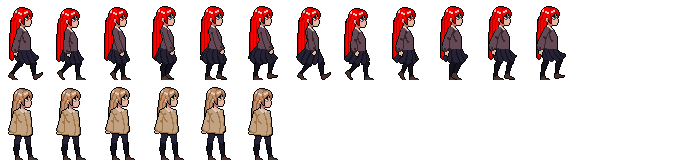
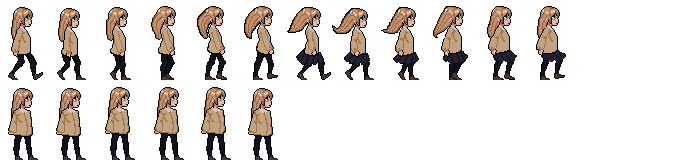
Added more animation to Sora NPC and added walking towards player functionality

diff --git a/WasteSeeker/Classes_Assets/NPC.cs b/WasteSeeker/Classes_Assets/NPC.cs
@@ -24,9 +24,9 @@ namespace WasteSeeker.Classes_Assets
 
         private float _scaleFactor = 2.0f;
 
-        //private NPCState _npcState = NPCState.Idle;
+        private NPCState _npcState = NPCState.Idle;
 
-        //private NPCState _previousNPCState;
+        private NPCState _previousNPCState;
 
         private double _animationTimer;
 
@@ -36,10 +36,21 @@ namespace WasteSeeker.Classes_Assets
 
         private BoundingRectangle _bounds;
 
+        private bool _isFollowingPlayer = false;
+
         /// <summary>
         /// The bounding volume of the sprite
         /// </summary>
         public BoundingRectangle Bounds => _bounds;
+
+        /// <summary>
+        /// Sets if the NPC is following the player
+        /// </summary>
+        public bool IsFollowingPlayer
+        {
+            get { return _isFollowingPlayer; }
+            set { _isFollowingPlayer = value; }
+        }
 
         /// <summary>
         /// Name of the NPC
@@ -59,7 +70,7 @@ namespace WasteSeeker.Classes_Assets
         /// <summary>
         /// The NPC's walk speed
         /// </summary>
-        public float WalkSpeed { get; set; }
+        public float WalkSpeed { get; set; } = 220;
 
         /// <summary>
         /// The NPC's Run Speed
@@ -83,13 +94,14 @@ namespace WasteSeeker.Classes_Assets
         /// <param name="description">Description of the character</param>
         /// <param name="health">Character's Hitpoints</param>
         /// <param name="position">Character's Position</param>
-        public NPC(string name, string description, int health, Vector2 position)
+        public NPC(string name, string description, int health, Vector2 position, bool isFollowingPlayer)
         {
             Name = name;
             Description = description;
             Health = health;
             Position = position;
             _bounds = new BoundingRectangle(position, 40, 80);
+            _isFollowingPlayer = isFollowingPlayer;
         }
 
         /// <summary>
@@ -103,12 +115,35 @@ namespace WasteSeeker.Classes_Assets
         }
 
         /// <summary>
+        /// Base Update Method in-case we only want to update what is happening to the NPC
+        /// </summary>
+        /// <param name="gameTime"></param>
+        public void Update(GameTime gameTime)
+        {
+            // TODO: Implementation
+        }
+
+        /// <summary>
         /// Updates the NPC in the game
         /// </summary>
         /// <param name="gameTime">Game Time</param>
-        public void Update(GameTime gameTime)
+        public void Update(GameTime gameTime, Vector2 playerPosition)
         {
-            
+            int movementDirection = 0;
+            TargetPlayer(playerPosition);
+            if (_isFollowingPlayer) { movementDirection = FollowPlayer(playerPosition); }
+
+            switch (_npcState)
+            {
+                case NPCState.Walking:
+
+                    Position += new Vector2(movementDirection * WalkSpeed * (float)gameTime.ElapsedGameTime.TotalSeconds, 0);
+
+                    break;
+            }
+
+            _bounds.X = Position.X;
+            _bounds.Y = Position.Y;
         }
 
         /// <summary>
@@ -121,14 +156,35 @@ namespace WasteSeeker.Classes_Assets
             _animationTimer += gameTime.ElapsedGameTime.TotalSeconds;
             Rectangle source;
 
-            if (_animationTimer > 0.2)
+            switch (_npcState)
             {
-                _animationFrame++;
-                if (_animationFrame > 5) { _animationFrame = 1; }
-                _animationTimer -= 0.2;
+                case NPCState.Idle:
+
+                    if (_animationTimer > 0.2)
+                    {
+                        _animationFrame++;
+                        if (_animationFrame > 5) { _animationFrame = 1; }
+                        _animationTimer -= 0.2;
+                    }
+                    source = new Rectangle(_animationFrame * 48, 81, 48, 80);
+                    spriteBatch.Draw(Texture, Position, source, Color.White, 0, new Vector2(24, 40), _scaleFactor, _directionFacing, 1);
+
+                    break;
+
+                case NPCState.Walking:
+
+                    if (_animationTimer > 0.1)
+                    {
+                        _animationFrame++;
+                        if (_animationFrame > 10) { _animationFrame = 1; }
+                        _animationTimer -= 0.1;
+                    }
+                    source = new Rectangle(_animationFrame * 48, 2, 48, 80);
+                    spriteBatch.Draw(Texture, Position, source, Color.White, 0, new Vector2(24, 40), _scaleFactor, _directionFacing, 1);
+
+                    break;
             }
-            source = new Rectangle(_animationFrame * 48, 81, 48, 80);
-            spriteBatch.Draw(Texture, Position, source, Color.White, 0, new Vector2(24, 40), _scaleFactor, _directionFacing, 1);
+            
         }
 
         /// <summary>
@@ -139,6 +195,31 @@ namespace WasteSeeker.Classes_Assets
         {
             if (playerPosition.X < Position.X) { _directionFacing = SpriteEffects.FlipHorizontally; }
             else {  _directionFacing = SpriteEffects.None; }
+        }
+
+        /// <summary>
+        /// Method to update 
+        /// </summary>
+        /// <param name="playerPosition"></param>
+        public int FollowPlayer(Vector2 playerPosition)
+        {
+            if (Position.X <= playerPosition.X && Position.X <= playerPosition.X - 150) // NPC is moving right towards player
+            {
+                _npcState = NPCState.Walking;
+                return 1;
+
+            }
+            if (Position.X >= playerPosition.X - 150 && Position.X <= playerPosition.X + 150) // NPC is within "150" pixels of player, so we switch to idle
+            {
+                _npcState = NPCState.Idle;
+                return 0;
+            }
+            if (Position.X >= playerPosition.X && Position.X >= playerPosition.X + 150) // NPC is moving left towards the player
+            {
+                _npcState = NPCState.Walking;
+                return -1;
+            }
+            return 0;
         }
     }
 }

diff --git a/WasteSeeker/WasteSeekerGame.cs b/WasteSeeker/WasteSeekerGame.cs
@@ -138,7 +138,7 @@ namespace WasteSeeker
 
             #region Characters
             _player = new Player("Kuzu", "TODO", 100, new Vector2(100, 480), _inputHandler);
-            _soraNPC = new NPC("Sora", "TODO", 100, new Vector2(((GraphicsDevice.Viewport.Width/2) + 250), 470));
+            _soraNPC = new NPC("Sora", "TODO", 100, new Vector2(((GraphicsDevice.Viewport.Width/2) + 250), 470), false);
             #endregion
 
             #endregion
@@ -289,20 +289,26 @@ namespace WasteSeeker
 
                     _player.Update(gameTime);
                     _soraNPC.TargetPlayer(_player.Position);
+                    _soraNPC.Update(gameTime, _player.Position);
 
-                    if (_player.Position.X <= -10) { _player.Position = new Vector2(GraphicsDevice.Viewport.X - 10, _player.Position.Y); }
-                    else if (_player.Position.X > 14000) { _player.Position = new Vector2(14000, _player.Position.Y); }
-                    
-                    // Make Sora ANGRY
-                    if (_player.Bounds.CollidesWith(_soraNPC.Bounds)) { _angryTimer += gameTime.ElapsedGameTime.TotalSeconds; }
+                    if (_player.Position.X >= _soraNPC.Position.X && !_soraNPC.IsFollowingPlayer)
+                    {
+                        _soraNPC.IsFollowingPlayer = true;
+                    }
 
+                    // TumbleWeed
                     _tumbleweed.Update(gameTime);
                     if (_tumbleweed.Position.X < _player.Position.X - 500)
                     {
                         _tumbleweed.UpdateScale();
                         _tumbleweed.Position = new Vector2(_player.Position.X + GraphicsDevice.Viewport.Width + 200, 540);
                     }
-
+                    // Player bounds on screen
+                    if (_player.Position.X <= -10) { _player.Position = new Vector2(GraphicsDevice.Viewport.X - 10, _player.Position.Y); }
+                    else if (_player.Position.X > 14000) { _player.Position = new Vector2(14000, _player.Position.Y); }
+                    
+                    // Make Sora ANGRY
+                    //if (_player.Bounds.CollidesWith(_soraNPC.Bounds)) { _angryTimer += gameTime.ElapsedGameTime.TotalSeconds; }
                     break;
             }
 
@@ -348,8 +354,8 @@ namespace WasteSeeker
                     GraphicsDevice.Clear(Color.NavajoWhite);
 
                     // Calculate our offset vector 
-                    float playerX = MathHelper.Clamp(_player.Position.X, 300, 14000);
-                    float offsetX = 300 - playerX;
+                    float playerX = MathHelper.Clamp(_player.Position.X, 500, 14000);
+                    float offsetX = 500 - playerX;
 
                     Matrix tranform;
 
@@ -376,27 +382,22 @@ namespace WasteSeeker
                     _spriteBatch.End();
 
                     _spriteBatch.Begin();
-
-                    
                     _spriteBatch.DrawString(_sedgwickAveDisplay, "Press 'Backspace' on the keyboard, to return to the Menu.", new Vector2((GraphicsDevice.Viewport.Width / 2) + 10, 700), Color.White, 0, _sedgwickAveDisplay.MeasureString("Press 'Backspace' on the keyboard, to return to the Menu.") / 2, 0.35f, SpriteEffects.None, 1);
                     
 
                     // Tutorial
-                    if (_player.Position.X <= 1280 / 4)
+                    if (_player.Position.X <= 1280)
                     {
                         _spriteBatch.DrawString(_sedgwickAveDisplay, "Press A, D, Left Arrow, or Right Arrow\nto move around!", new Vector2(GraphicsDevice.Viewport.Width / 2, 300), Color.Black, 0, _sedgwickAveDisplay.MeasureString("Press A, D, Left Arrow, or Right Arrow\nto move around!") / 2, (float)0.5, SpriteEffects.None, 1);
                     }
-                    else
+                    else if (_player.Position.X <= 1600)
                     {
-                        _spriteBatch.DrawString(_sedgwickAveDisplay, $"Time Angry: {TimeSpan.FromSeconds(_angryTimer):mm\\:ss\\.fff}", new Vector2(400, 200), Color.Black, 0, _sedgwickAveDisplay.MeasureString($"Time Angry: {TimeSpan.FromSeconds(_angryTimer):mm\\:ss\\.fff}") / 2, (float)0.5, SpriteEffects.None, 1);
-                        if (!_player.Bounds.CollidesWith(_soraNPC.Bounds))
-                        {
-                            _spriteBatch.DrawString(_sedgwickAveDisplay, "Run into the character to make them angry!", new Vector2(GraphicsDevice.Viewport.Width / 2, 300), Color.Black, 0, _sedgwickAveDisplay.MeasureString("Run into the character to make them angry!") / 2, (float)0.5, SpriteEffects.None, 1);
-                        }
-                        else
-                        {
-                            _spriteBatch.DrawString(_sedgwickAveDisplay, "Watch it!", new Vector2(_soraNPC.Position.X, _soraNPC.Position.Y - 150), Color.Black, 0, _sedgwickAveDisplay.MeasureString("Watch it!") / 2, (float)1.5, SpriteEffects.None, 1);
-                        }
+                        //_spriteBatch.DrawString(_sedgwickAveDisplay, $"Time Angry: {TimeSpan.FromSeconds(_angryTimer):mm\\:ss\\.fff}", new Vector2(400, 200), Color.Black, 0, _sedgwickAveDisplay.MeasureString($"Time Angry: {TimeSpan.FromSeconds(_angryTimer):mm\\:ss\\.fff}") / 2, (float)0.5, SpriteEffects.None, 1);
+                        _spriteBatch.DrawString(_sedgwickAveDisplay, "Certain NPCs may follow you\n after crossing paths with them!", new Vector2(GraphicsDevice.Viewport.Width / 2, 300), Color.Black, 0, _sedgwickAveDisplay.MeasureString("Certain NPCs may follow you\n after crossing paths with them!") / 2, (float)0.5, SpriteEffects.None, 1);
+                    }
+                    else 
+                    {
+                        _spriteBatch.DrawString(_sedgwickAveDisplay, "Gameplay coming soon!", new Vector2(GraphicsDevice.Viewport.Width / 2, 300), Color.Black, 0, _sedgwickAveDisplay.MeasureString("Gameplay coming soon!") / 2, (float)0.5, SpriteEffects.None, 1);
                     }
                     _spriteBatch.End();
                     tranform = Matrix.CreateTranslation(offsetX, 0, 0);

diff --git a/WasteSeeker/GameState.cs b/WasteSeeker/GameState.cs
@@ -10,6 +10,7 @@ namespace WasteSeeker
     {
         MainMenu,
         Options,
+        InGameOptions,
         Credits,
         GameOver,
         Playing,
